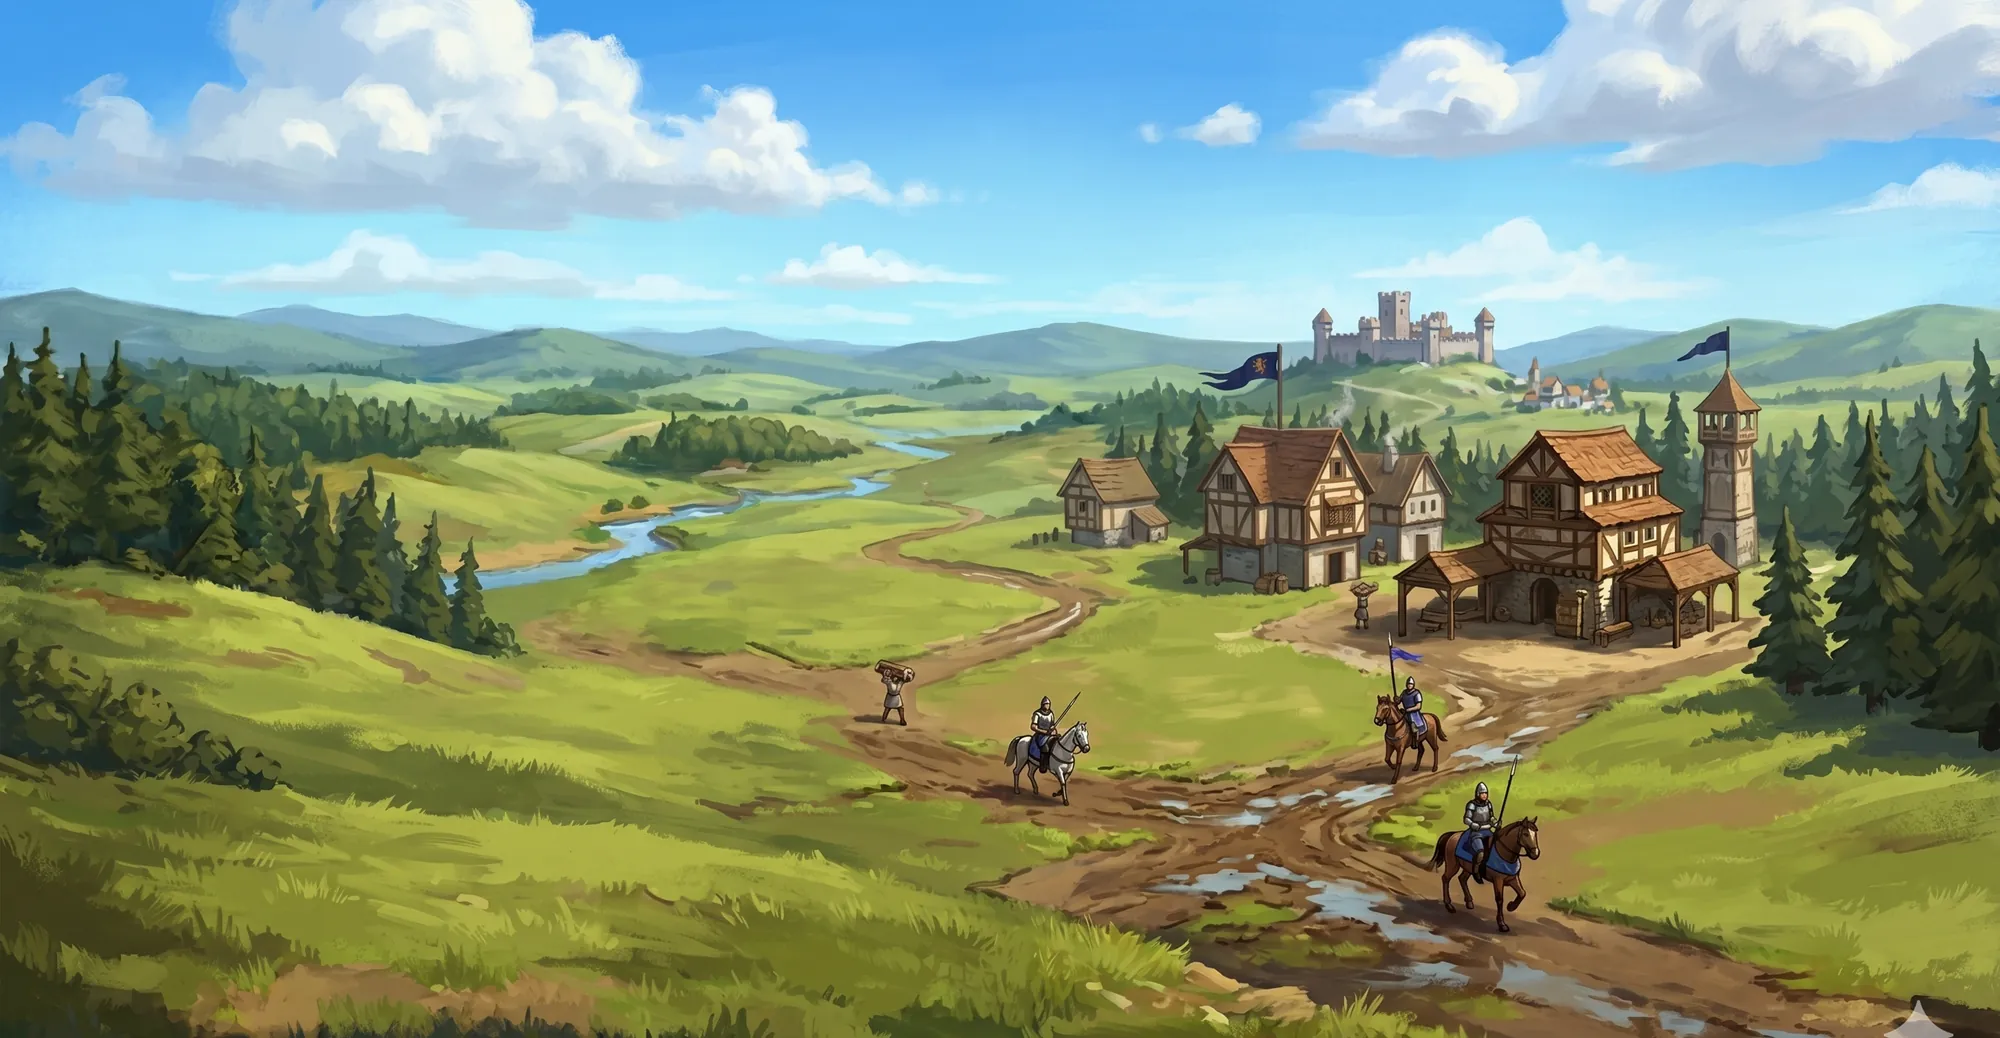
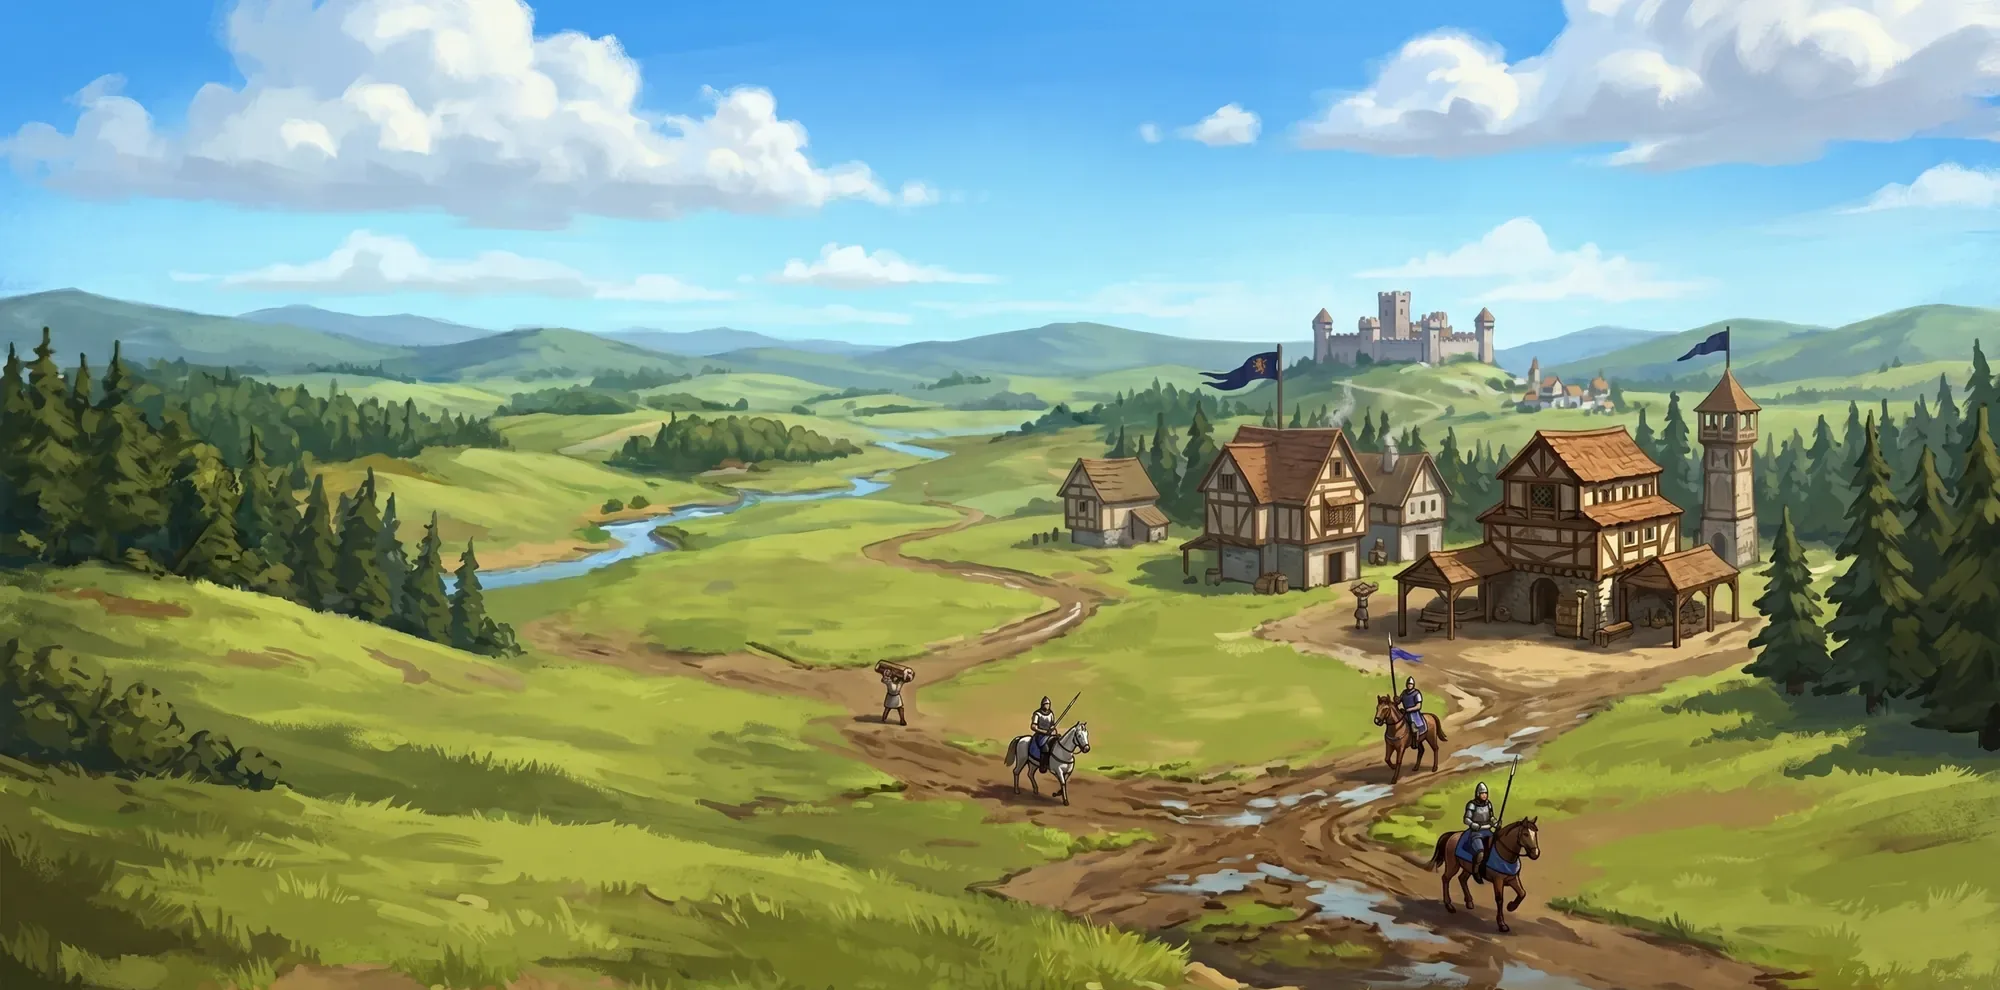
Now on the Microsoft Store: Store button on every call to action
Every "Get Empire Forge" CTA is one include (_includes/get-buttons.html): the
Microsoft Store button with the Windows icon, and "or download from GitHub"
as a text link beneath it. The Download page leads with the Store, keeps the
exe as the portable option, and explains switching from it. The hero image
loses the Gemini watermark (48px trimmed off the bottom).

Claude-Session: https://claude.ai/code/session_013A6xtPgAmroHoQRgpmYXM9

diff --git a/download.html b/download.html
@@ -1,14 +1,14 @@
 ---
 layout: default
-title: Download - Empire Forge
-description: "Download Empire Forge for Age of Empires II: Definitive Edition for Windows – free and open source. Requirements, first-launch help and what to expect."
+title: Get Empire Forge
+description: "Get Empire Forge for Age of Empires II: Definitive Edition from the Microsoft Store or GitHub – free and open source. Requirements, first-launch help and what to expect."
 permalink: /download/
 ---
 <header class="ef-page-head">
   <div class="ef-container">
     <p class="ef-section-label">Free &amp; open source</p>
-    <h1>Download Empire Forge</h1>
-    <p>One file, nothing to install. It needs only Age of Empires II: Definitive Edition on the same PC.</p>
+    <h1>Get Empire Forge</h1>
+    <p>Now on the Microsoft Store. It needs only Age of Empires II: Definitive Edition on the same PC.</p>
   </div>
 </header>
 
@@ -17,35 +17,27 @@ permalink: /download/
     <div class="ef-dl-grid">
 
       <div class="ef-dl-card featured">
-        <span class="ef-badge">Recommended today</span>
-        <h2><i class="fa-brands fa-github"></i>GitHub release</h2>
-        <p>The latest version as a single <code>AOE2EmpireForge.exe</code>. No installer – download it and double-click.</p>
-        <ul>
-          <li>Always the newest release, usually the same day</li>
-          <li>The app tells you when a newer version is out</li>
-          <li>Windows shows a SmartScreen warning the first time – <a href="#smartscreen">here's why and what to click</a></li>
-        </ul>
-        <a class="ef-btn ef-btn-primary" href="{{ site.releases_url }}"><i class="fa-solid fa-download"></i>Download from GitHub</a>
-      </div>
-
-      <div class="ef-dl-card">
-        {% if site.store_url != "" %}
-        <span class="ef-badge">No warnings</span>
-        {% else %}
-        <span class="ef-badge">Coming soon</span>
-        {% endif %}
-        <h2><i class="fa-brands fa-microsoft"></i>Microsoft Store</h2>
-        <p>The same app, installed and updated by the Microsoft Store.</p>
+        <span class="ef-badge">Recommended</span>
+        <h2><i class="fa-brands fa-windows"></i>Microsoft Store</h2>
+        <p>Installed and kept up to date by the Microsoft Store.</p>
         <ul>
           <li>No SmartScreen warning – Microsoft signs it</li>
           <li>Updates arrive automatically</li>
           <li>Uninstall from Windows Settings like any other app</li>
         </ul>
-        {% if site.store_url != "" %}
-        <a class="ef-btn ef-btn-outline" href="{{ site.store_url }}"><i class="fa-brands fa-microsoft"></i>Get it from Microsoft</a>
-        {% else %}
-        <a class="ef-btn ef-btn-outline" aria-disabled="true"><i class="fa-regular fa-clock"></i>In certification</a>
-        {% endif %}
+        {% include get-buttons.html github=false %}
+      </div>
+
+      <div class="ef-dl-card">
+        <span class="ef-badge">Portable</span>
+        <h2><i class="fa-brands fa-github"></i>GitHub release</h2>
+        <p>The same app as a single <code>AOE2EmpireForge.exe</code>. No installer – download it and double-click.</p>
+        <ul>
+          <li>Always the newest release, usually the same day</li>
+          <li>The app tells you when a newer version is out</li>
+          <li>Windows shows a SmartScreen warning the first time – <a href="#smartscreen">here's why and what to click</a></li>
+        </ul>
+        <a class="ef-btn ef-btn-outline" href="{{ site.releases_url }}"><i class="fa-brands fa-github"></i>Download from GitHub</a>
       </div>
 
     </div>
@@ -88,7 +80,14 @@ permalink: /download/
     <p>
       Wary of running an unsigned file? That's healthy. Every line of Empire Forge is public on
       <a href="{{ site.repo_url }}">GitHub</a>, and the exe is built from it by GitHub's own servers – you can see
-      each build in the repository's Actions tab. The Microsoft Store version, once it's out, skips this step entirely.
+      each build in the repository's Actions tab. The Microsoft Store version skips this step entirely.
+    </p>
+
+    <h2 id="switching">Switching from the GitHub download</h2>
+    <p>
+      The exe never installed anything, so moving to the Store version is simple: close its console window, delete
+      <code>AOE2EmpireForge.exe</code>, and install from the Microsoft Store. Your saved civ files open in either version,
+      and mods you've already built stay in the game's mods folder.
     </p>
 
     <h2>What happens when it runs</h2>

diff --git a/index.html b/index.html
@@ -12,10 +12,10 @@ description: "Design custom civilizations for Age of Empires II: Definitive Edit
       architecture and voices – and build it into a real game mod. No programming required.
     </p>
     <div class="ef-hero-actions">
-      <a href="{{ '/download/' | relative_url }}" class="ef-btn ef-btn-primary"><i class="fa-brands fa-windows"></i>Download for Windows</a>
+      {% include get-buttons.html %}
       <a href="{{ '/features/' | relative_url }}" class="ef-btn ef-btn-outline">Take the tour</a>
     </div>
-    <p class="ef-hero-note">Free &amp; open source · Windows 10/11 · Steam and PC Game Pass</p>
+    <p class="ef-hero-note">Free &amp; open source · Now on the Microsoft Store · Steam and PC Game Pass</p>
   </div>
 </section>
 
@@ -116,9 +116,9 @@ description: "Design custom civilizations for Age of Empires II: Definitive Edit
   <h2>Ready to forge your empire?</h2>
   <p>
     Empire Forge is free, open source and runs entirely on your own computer.
-    All you need is Age of Empires II: Definitive Edition on Steam or PC Game Pass.
+    Get it from the Microsoft Store – all you need is Age of Empires II: Definitive Edition on Steam or PC Game Pass.
   </p>
-  <a href="{{ '/download/' | relative_url }}" class="ef-btn ef-btn-primary"><i class="fa-brands fa-windows"></i>Download for Windows – Free</a>
+  {% include get-buttons.html label="Get it free from the Microsoft Store" %}
   <span class="ef-cta-secondary">
     Questions? Join the <a href="{{ site.discord_server_url }}">Empire Forge Discord</a> or read the <a href="{{ '/faq/' | relative_url }}">FAQ</a>.
   </span>

diff --git a/assets/css/site.css b/assets/css/site.css
@@ -196,6 +196,11 @@ kbd {
 .ef-btn-outline:hover { background: var(--crimson); color: #fff; }
 .ef-btn[aria-disabled="true"] { opacity: 0.55; pointer-events: none; }
 
+/* Store button + the GitHub exe as a text link beneath it (_includes/get-buttons.html) */
+.ef-get { display: inline-flex; flex-direction: column; align-items: center; gap: 0.6rem; }
+.ef-get-alt { display: inline-flex; align-items: center; gap: 0.45em; font-size: 0.85rem; color: var(--ink-mid); }
+.ef-get-alt:hover { color: var(--crimson); }
+
 /* ── Navbar ───────────────────────────────────────────────────────────────── */
 .ef-nav {
   background: var(--walnut);
@@ -301,7 +306,7 @@ kbd {
   margin: 0 auto 2rem;
   max-width: 540px;
 }
-.ef-hero-actions { display: flex; gap: 1rem; justify-content: center; flex-wrap: wrap; }
+.ef-hero-actions { display: flex; gap: 1rem; justify-content: center; align-items: flex-start; flex-wrap: wrap; }
 .ef-hero-note { margin-top: 1rem; margin-bottom: 0; font-size: 0.8rem; color: var(--ash); }
 @media (max-width: 600px) {
   .ef-hero { min-height: 0; }
@@ -497,6 +502,7 @@ kbd {
 .ef-dl-card h2 i { color: var(--crimson); }
 .ef-dl-card ul { padding-left: 1.2rem; font-size: 0.93rem; }
 .ef-dl-card .ef-btn { align-self: flex-start; margin-top: auto; }
+.ef-dl-card .ef-get { align-self: flex-start; align-items: flex-start; margin-top: auto; }
 .ef-badge {
   display: inline-block;
   font-family: var(--font-display);

diff --git a/faq.html b/faq.html
@@ -33,7 +33,7 @@ permalink: /faq/
 
       <details>
         <summary>Do I need Python or any modding tools?</summary>
-        <div><p>No. The download is a single program with everything inside it. You only need the game installed on the same PC.</p></div>
+        <div><p>No. Empire Forge has everything it needs inside it, whether you get it from the Microsoft Store or GitHub. You only need the game installed on the same PC.</p></div>
       </details>
 
       <details>
@@ -57,7 +57,7 @@ permalink: /faq/
 
       <details>
         <summary>Windows says "Windows protected your PC"</summary>
-        <div><p>That's SmartScreen, which warns about any program it hasn't seen many times before. Click <strong>More info</strong>, then <strong>Run anyway</strong>. <a href="{{ '/download/#smartscreen' | relative_url }}">Why the warning appears</a>.</p></div>
+        <div><p>That's SmartScreen, which warns about any program it hasn't seen many times before. It only happens with the GitHub download: the <a href="{{ site.store_url | default: '/download/' }}">Microsoft Store version</a> doesn't show it. Click <strong>More info</strong>, then <strong>Run anyway</strong>. <a href="{{ '/download/#smartscreen' | relative_url }}">Why the warning appears</a>.</p></div>
       </details>
 
       <details id="nothing-happens">

diff --git a/_includes/get-buttons.html b/_includes/get-buttons.html
@@ -1,0 +1,18 @@
+{%- comment -%}
+  The "Get Empire Forge" call to action: the Microsoft Store button, with the
+  GitHub exe as a quieter text link beside it.  Every CTA on the site uses this,
+  so the wording and the links change in one place.
+
+  include.label   button text (default "Get it from the Microsoft Store")
+  include.github  false to leave out the GitHub link (the nav bar has no room)
+
+  Until store_url is set the button falls back to the Download page.
+{%- endcomment -%}
+{%- assign label = include.label | default: "Get it from the Microsoft Store" -%}
+{%- if site.store_url != "" -%}{%- assign store_href = site.store_url -%}{%- else -%}{%- assign store_href = '/download/' | relative_url -%}{%- endif -%}
+<span class="ef-get{% if include.class %} {{ include.class }}{% endif %}">
+  <a href="{{ store_href }}" class="ef-btn ef-btn-primary"><i class="fa-brands fa-windows"></i>{{ label }}</a>
+  {%- unless include.github == false %}
+  <a href="{{ site.releases_url }}" class="ef-get-alt"><i class="fa-brands fa-github"></i>or download from GitHub</a>
+  {%- endunless %}
+</span>

diff --git a/features.html b/features.html
@@ -91,6 +91,6 @@ permalink: /features/
 <section class="ef-cta-section">
   <h2>Try it yourself</h2>
   <p>Free, open source, and nothing to sign up for.</p>
-  <a href="{{ '/download/' | relative_url }}" class="ef-btn ef-btn-primary"><i class="fa-brands fa-windows"></i>Download for Windows</a>
+  {% include get-buttons.html %}
   <span class="ef-cta-secondary">Some exotic effects aren't possible in the game engine - see <a href="{{ '/faq/#limitations' | relative_url }}">what Empire Forge can't do</a>.</span>
 </section>

diff --git a/_includes/header.html b/_includes/header.html
@@ -8,6 +8,6 @@
       <a href="{{ parts[1] | relative_url }}"{% if page.url == parts[1] %} class="active" aria-current="page"{% endif %}>{{ parts[0] }}</a>
       {% endfor %}
     </div>
-    <a href="{{ '/download/' | relative_url }}" class="ef-btn ef-btn-primary ef-nav-cta"><i class="fa-brands fa-windows"></i>Download</a>
+    {% include get-buttons.html label="Get it" github=false class="ef-nav-cta" %}
   </div>
 </nav>

diff --git a/how-it-works.html b/how-it-works.html
@@ -81,7 +81,7 @@ permalink: /how-it-works/
     </div>
 
     <p style="text-align:center;margin-top:2.5rem">
-      <a class="ef-btn ef-btn-primary" href="{{ '/download/' | relative_url }}"><i class="fa-brands fa-windows"></i>Download Empire Forge</a>
+      {% include get-buttons.html %}
     </p>
   </div>
 </section>

diff --git a/why.html b/why.html
@@ -70,7 +70,7 @@ permalink: /why/
     </div>
 
     <p style="text-align:center;margin-top:2.5rem">
-      <a class="ef-btn ef-btn-primary" href="{{ '/download/' | relative_url }}"><i class="fa-brands fa-windows"></i>Download Empire Forge</a>
+      {% include get-buttons.html %}
     </p>
   </div>
 </section>
